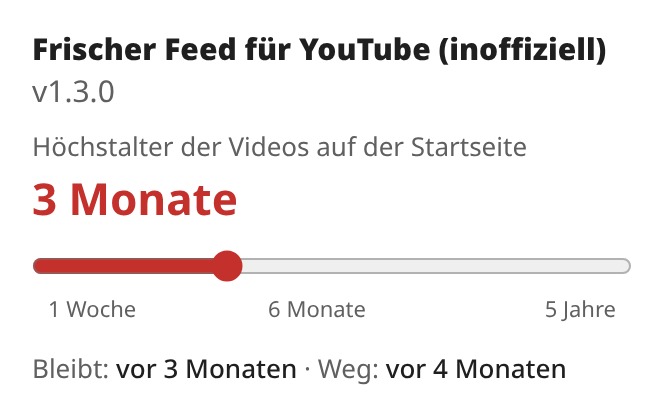
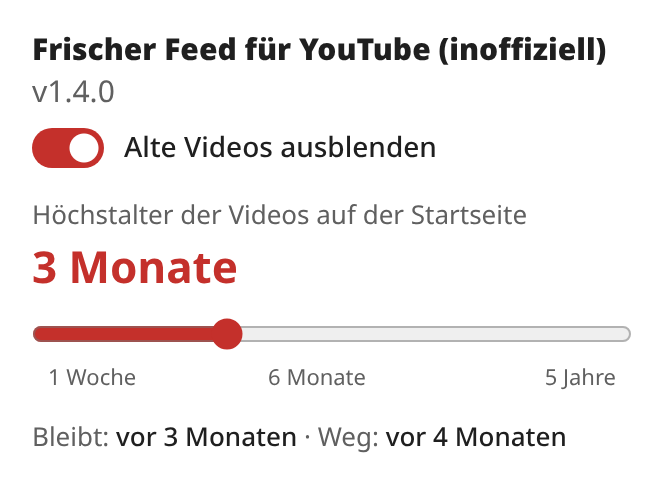
feat: on/off switch for the filter (1.4.0)
A switch "Hide old videos" at the top of the popup turns the filter off
and on. Switched off, the content script removes all its marks at once, so
every hidden video reappears, and the slider is greyed out and disabled;
the chosen limit stays stored for the next time. The switch label is
translated into all 29 languages.

The mock-page test now also switches the filter off and on again.

Changed region(s): [[0.0301, 0.4062, 0.9639, 0.8125], [0.0301, 0.0625, 0.9337, 0.375], [0.0301, 0.8438, 0.8735, 0.9375]]

diff --git a/i18n.js b/i18n.js
@@ -2,35 +2,35 @@
 // Fehlt ein Text in einer Sprache, wird der englische verwendet.
 // Zeiteinheiten ("3 Monate", "vor 3 Monaten") stehen hier nicht: die liefert der Browser per Intl.
 window.yffStrings = {
-  de: { question: "Höchstalter der Videos auf der Startseite", keep: "Bleibt", hide: "Weg" },
-  en: { question: "Maximum age of videos on the home page", keep: "Shown", hide: "Hidden" },
-  fr: { question: "Âge maximal des vidéos sur la page d’accueil", keep: "Visible", hide: "Masqué" },
-  es: { question: "Antigüedad máxima de los vídeos en la página principal", keep: "Visible", hide: "Oculto" },
-  it: { question: "Età massima dei video nella home", keep: "Visibile", hide: "Nascosto" },
-  pt: { question: "Idade máxima dos vídeos na página inicial", keep: "Visível", hide: "Oculto" },
-  nl: { question: "Maximale leeftijd van video’s op de startpagina", keep: "Zichtbaar", hide: "Verborgen" },
-  pl: { question: "Maksymalny wiek filmów na stronie głównej", keep: "Widoczne", hide: "Ukryte" },
-  cs: { question: "Maximální stáří videí na hlavní stránce", keep: "Zobrazeno", hide: "Skryto" },
-  sk: { question: "Maximálny vek videí na hlavnej stránke", keep: "Zobrazené", hide: "Skryté" },
-  sl: { question: "Največja starost videoposnetkov na začetni strani", keep: "Vidno", hide: "Skrito" },
-  hr: { question: "Najveća starost videozapisa na početnoj stranici", keep: "Vidljivo", hide: "Skriveno" },
-  hu: { question: "Videók legnagyobb kora a kezdőlapon", keep: "Látható", hide: "Rejtett" },
-  ro: { question: "Vechimea maximă a videoclipurilor pe pagina principală", keep: "Vizibil", hide: "Ascuns" },
-  bg: { question: "Максимална възраст на видеоклиповете на началната страница", keep: "Видимо", hide: "Скрито" },
-  el: { question: "Μέγιστη ηλικία βίντεο στην αρχική σελίδα", keep: "Ορατό", hide: "Κρυφό" },
-  da: { question: "Maksimal alder for videoer på forsiden", keep: "Vises", hide: "Skjult" },
-  sv: { question: "Högsta ålder för videor på startsidan", keep: "Visas", hide: "Dolt" },
-  nb: { question: "Maksimal alder for videoer på startsiden", keep: "Vises", hide: "Skjult" },
-  fi: { question: "Videoiden enimmäisikä etusivulla", keep: "Näkyy", hide: "Piilotettu" },
-  et: { question: "Videote maksimaalne vanus avalehel", keep: "Nähtav", hide: "Peidetud" },
-  lv: { question: "Videoklipu maksimālais vecums sākumlapā", keep: "Redzams", hide: "Paslēpts" },
-  lt: { question: "Didžiausias vaizdo įrašų amžius pradžios puslapyje", keep: "Matoma", hide: "Paslėpta" },
-  ga: { question: "Uasaois na bhfíseán ar an leathanach baile", keep: "Le feiceáil", hide: "I bhfolach" },
-  mt: { question: "L-età massima tal-vidjows fil-paġna ewlenija", keep: "Jidher", hide: "Moħbi" },
-  uk: { question: "Максимальний вік відео на головній сторінці", keep: "Видно", hide: "Приховано" },
-  ru: { question: "Максимальный возраст видео на главной странице", keep: "Видно", hide: "Скрыто" },
-  tr: { question: "Ana sayfadaki videoların azami yaşı", keep: "Görünür", hide: "Gizli" },
-  ca: { question: "Antiguitat màxima dels vídeos a la pàgina d’inici", keep: "Visible", hide: "Amagat" },
+  de: { toggle: "Alte Videos ausblenden", question: "Höchstalter der Videos auf der Startseite", keep: "Bleibt", hide: "Weg" },
+  en: { toggle: "Hide old videos", question: "Maximum age of videos on the home page", keep: "Shown", hide: "Hidden" },
+  fr: { toggle: "Masquer les anciennes vidéos", question: "Âge maximal des vidéos sur la page d’accueil", keep: "Visible", hide: "Masqué" },
+  es: { toggle: "Ocultar vídeos antiguos", question: "Antigüedad máxima de los vídeos en la página principal", keep: "Visible", hide: "Oculto" },
+  it: { toggle: "Nascondi i video vecchi", question: "Età massima dei video nella home", keep: "Visibile", hide: "Nascosto" },
+  pt: { toggle: "Ocultar vídeos antigos", question: "Idade máxima dos vídeos na página inicial", keep: "Visível", hide: "Oculto" },
+  nl: { toggle: "Oude video’s verbergen", question: "Maximale leeftijd van video’s op de startpagina", keep: "Zichtbaar", hide: "Verborgen" },
+  pl: { toggle: "Ukryj stare filmy", question: "Maksymalny wiek filmów na stronie głównej", keep: "Widoczne", hide: "Ukryte" },
+  cs: { toggle: "Skrýt stará videa", question: "Maximální stáří videí na hlavní stránce", keep: "Zobrazeno", hide: "Skryto" },
+  sk: { toggle: "Skryť staré videá", question: "Maximálny vek videí na hlavnej stránke", keep: "Zobrazené", hide: "Skryté" },
+  sl: { toggle: "Skrij stare videoposnetke", question: "Največja starost videoposnetkov na začetni strani", keep: "Vidno", hide: "Skrito" },
+  hr: { toggle: "Sakrij stare videozapise", question: "Najveća starost videozapisa na početnoj stranici", keep: "Vidljivo", hide: "Skriveno" },
+  hu: { toggle: "Régi videók elrejtése", question: "Videók legnagyobb kora a kezdőlapon", keep: "Látható", hide: "Rejtett" },
+  ro: { toggle: "Ascunde videoclipurile vechi", question: "Vechimea maximă a videoclipurilor pe pagina principală", keep: "Vizibil", hide: "Ascuns" },
+  bg: { toggle: "Скриване на стари видеоклипове", question: "Максимална възраст на видеоклиповете на началната страница", keep: "Видимо", hide: "Скрито" },
+  el: { toggle: "Απόκρυψη παλιών βίντεο", question: "Μέγιστη ηλικία βίντεο στην αρχική σελίδα", keep: "Ορατό", hide: "Κρυφό" },
+  da: { toggle: "Skjul gamle videoer", question: "Maksimal alder for videoer på forsiden", keep: "Vises", hide: "Skjult" },
+  sv: { toggle: "Dölj gamla videor", question: "Högsta ålder för videor på startsidan", keep: "Visas", hide: "Dolt" },
+  nb: { toggle: "Skjul gamle videoer", question: "Maksimal alder for videoer på startsiden", keep: "Vises", hide: "Skjult" },
+  fi: { toggle: "Piilota vanhat videot", question: "Videoiden enimmäisikä etusivulla", keep: "Näkyy", hide: "Piilotettu" },
+  et: { toggle: "Peida vanad videod", question: "Videote maksimaalne vanus avalehel", keep: "Nähtav", hide: "Peidetud" },
+  lv: { toggle: "Paslēpt vecos videoklipus", question: "Videoklipu maksimālais vecums sākumlapā", keep: "Redzams", hide: "Paslēpts" },
+  lt: { toggle: "Slėpti senus vaizdo įrašus", question: "Didžiausias vaizdo įrašų amžius pradžios puslapyje", keep: "Matoma", hide: "Paslėpta" },
+  ga: { toggle: "Folaigh seanfhíseáin", question: "Uasaois na bhfíseán ar an leathanach baile", keep: "Le feiceáil", hide: "I bhfolach" },
+  mt: { toggle: "Aħbi l-vidjows qodma", question: "L-età massima tal-vidjows fil-paġna ewlenija", keep: "Jidher", hide: "Moħbi" },
+  uk: { toggle: "Приховувати старі відео", question: "Максимальний вік відео на головній сторінці", keep: "Видно", hide: "Приховано" },
+  ru: { toggle: "Скрывать старые видео", question: "Максимальный возраст видео на главной странице", keep: "Видно", hide: "Скрыто" },
+  tr: { toggle: "Eski videoları gizle", question: "Ana sayfadaki videoların azami yaşı", keep: "Görünür", hide: "Gizli" },
+  ca: { toggle: "Amaga els vídeos antics", question: "Antiguitat màxima dels vídeos a la pàgina d’inici", keep: "Visible", hide: "Amagat" },
 };
 
 // Sprachcode (z. B. "de-AT", "pt-BR", "no") auf einen vorhandenen Block abbilden, sonst Englisch

diff --git a/content.js b/content.js
@@ -5,6 +5,7 @@
 // Grenze in Tagen, wird im Popup eingestellt. Standard 4 Wochen:
 // "vor 4 Wochen" bleibt sichtbar, "vor 1 Monat" verschwindet.
 let maxTage = 28;
+let aktiv = true; // Ein/Aus-Schalter im Popup
 
 // Bereich, in dem gefiltert wird: nur die Startseite.
 const BEREICH = 'ytd-browse[page-subtype="home"]';
@@ -54,7 +55,8 @@ function erkenner(sprachen) {
 
 function filtern(alterInTagen) {
   const alt = new Set();
-  for (const bereich of document.querySelectorAll(BEREICH)) {
+  // Filter aus: alt bleibt leer, unten werden alle Markierungen entfernt
+  for (const bereich of aktiv ? document.querySelectorAll(BEREICH) : []) {
     const walker = document.createTreeWalker(bereich, NodeFilter.SHOW_TEXT);
     for (let knoten = walker.nextNode(); knoten; knoten = walker.nextNode()) {
       // Manche Metadaten stehen als "1.234 Aufrufe • vor 2 Monaten" in einem Knoten.
@@ -89,9 +91,11 @@ if (typeof module !== 'undefined') {
     setTimeout(() => { geplant = false; lauf(); }, 250);
   }).observe(document.documentElement, { childList: true, subtree: true, characterData: true });
 
-  chrome.storage.local.get({ maxTage }).then((wert) => { maxTage = wert.maxTage; lauf(); });
+  chrome.storage.local.get({ maxTage, aktiv }).then((wert) => { ({ maxTage, aktiv } = wert); lauf(); });
   // Änderung im Popup wirkt sofort, ohne die Seite neu zu laden.
   chrome.storage.onChanged.addListener((aenderung) => {
-    if (aenderung.maxTage) { maxTage = aenderung.maxTage.newValue; lauf(); }
+    if (aenderung.maxTage) maxTage = aenderung.maxTage.newValue;
+    if (aenderung.aktiv) aktiv = aenderung.aktiv.newValue;
+    lauf();
   });
 }

diff --git a/test/testseite.html b/test/testseite.html
@@ -17,7 +17,8 @@
     local: { get: (standard) => Promise.resolve({ ...standard }) },
     onChanged: { addListener: (f) => hoerer.push(f) },
   } };
-  const grenzeSetzen = (tage) => hoerer.forEach((f) => f({ maxTage: { newValue: tage } }));
+  const setzen = (schluessel, wert) => hoerer.forEach((f) => f({ [schluessel]: { newValue: wert } }));
+  const grenzeSetzen = (tage) => setzen('maxTage', tage);
   const zustand = (name) => name + ': ' + [...document.querySelectorAll('ytd-rich-item-renderer')]
     .map((e) => e.id + '=' + (e.classList.contains('fresh-feed-hidden') ? 'AUS' : 'an')).join(' ');
 </script>
@@ -30,6 +31,8 @@
     document.getElementById('altdatum').textContent = 'vor 1 Tag';
   }, 500);
   setTimeout(() => { ergebnis.push(zustand('28 Tage')); grenzeSetzen(7); }, 1000);
-  setTimeout(() => { ergebnis.push(zustand('7 Tage')); grenzeSetzen(1825); }, 1500);
-  setTimeout(() => { ergebnis.push(zustand('5 Jahre')); document.title = ergebnis.join(' | '); }, 2000);
+  setTimeout(() => { ergebnis.push(zustand('7 Tage')); setzen('aktiv', false); }, 1500);
+  setTimeout(() => { ergebnis.push(zustand('7 Tage, Filter aus')); setzen('aktiv', true); }, 2000);
+  setTimeout(() => { ergebnis.push(zustand('7 Tage, Filter wieder an')); grenzeSetzen(1825); }, 2500);
+  setTimeout(() => { ergebnis.push(zustand('5 Jahre')); document.title = ergebnis.join(' | '); }, 3000);
 </script></body></html>

diff --git a/popup.css b/popup.css
@@ -3,6 +3,7 @@
   --text: #1f1f1f;
   --leise: #606060;
   --akzent: #c4302b;
+  --aus: #b4b4b4;
   --daumen: 16px;
 }
 @media (prefers-color-scheme: dark) {
@@ -11,6 +12,7 @@
     --text: #f1f1f1;
     --leise: #aaaaaa;
     --akzent: #ff5a52;
+    --aus: #5c5c5c;
   }
 }
 
@@ -24,6 +26,34 @@ body {
 }
 h1 { font-size: 15px; margin: 0 0 8px; }
 h1 span { font-weight: normal; color: var(--leise); }
+
+/* Ein/Aus-Schalter; der Knopf ist ein Hintergrundverlauf, damit kein ::before auf <input> nötig ist */
+.schalter {
+  display: flex;
+  align-items: center;
+  gap: 10px;
+  margin: 4px 0 14px;
+  font-size: 14px;
+  font-weight: 500;
+  cursor: pointer;
+}
+.schalter input {
+  appearance: none;
+  flex: none;
+  width: 36px;
+  height: 20px;
+  margin: 0;
+  border-radius: 10px;
+  background: radial-gradient(circle at 10px 50%, #fff 7px, transparent 7.5px), var(--aus);
+  cursor: pointer;
+}
+.schalter input:checked {
+  background: radial-gradient(circle at 26px 50%, #fff 7px, transparent 7.5px), var(--akzent);
+}
+.schalter input:focus-visible { outline: 2px solid var(--akzent); outline-offset: 2px; }
+
+fieldset { border: 0; margin: 0; padding: 0; min-width: 0; }
+fieldset:disabled { opacity: .4; }
 .frage { margin: 0; color: var(--leise); }
 output {
   display: block;

diff --git a/popup.js b/popup.js
@@ -43,14 +43,24 @@ function anzeigen() {
   beispiel.replaceChildren(`${text('keep')}: `, b(vor(s)), ` · ${text('hide')}: `, b(vor(naechste)));
 }
 
-// Gespeicherten Wert auf die nächstliegende Stufe abbilden (Standard 28 Tage = 4 Wochen).
-chrome.storage.local.get({ maxTage: 28 }).then(({ maxTage }) => {
+const aktiv = document.getElementById('aktiv');
+const einstellung = document.getElementById('einstellung');
+
+// Gespeicherten Wert auf die nächstliegende Stufe abbilden (Standard 28 Tage = 4 Wochen, Filter an).
+chrome.storage.local.get({ maxTage: 28, aktiv: true }).then((s) => {
   let beste = 0;
-  STUFEN.forEach((s, i) => {
-    if (Math.abs(s.tage - maxTage) < Math.abs(STUFEN[beste].tage - maxTage)) beste = i;
+  STUFEN.forEach((stufe, i) => {
+    if (Math.abs(stufe.tage - s.maxTage) < Math.abs(STUFEN[beste].tage - s.maxTage)) beste = i;
   });
   regler.value = beste;
+  aktiv.checked = s.aktiv;
+  einstellung.disabled = !s.aktiv; // Regler grau und gesperrt, die Grenze bleibt gespeichert
   anzeigen();
+});
+
+aktiv.addEventListener('change', () => {
+  einstellung.disabled = !aktiv.checked;
+  chrome.storage.local.set({ aktiv: aktiv.checked });
 });
 
 regler.addEventListener('input', anzeigen); // Anzeige beim Ziehen

diff --git a/popup.html b/popup.html
@@ -6,11 +6,17 @@
 </head>
 <body>
   <h1><b id="name"></b> <span id="version"></span></h1>
-  <p class="frage" data-i18n="question"></p>
-  <output id="wert"></output>
-  <input type="range" id="regler" min="0" step="1">
-  <div class="skala" id="skala"></div>
-  <p class="beispiel" id="beispiel"></p>
+  <label class="schalter">
+    <input type="checkbox" id="aktiv" role="switch">
+    <span data-i18n="toggle"></span>
+  </label>
+  <fieldset id="einstellung">
+    <p class="frage" data-i18n="question"></p>
+    <output id="wert"></output>
+    <input type="range" id="regler" min="0" step="1">
+    <div class="skala" id="skala"></div>
+    <p class="beispiel" id="beispiel"></p>
+  </fieldset>
   <script src="i18n.js"></script>
   <script src="popup.js"></script>
 </body>

diff --git a/README.md b/README.md
@@ -13,7 +13,9 @@ extension it only shows what is recent enough for you. Subscriptions, search, ch
 
 ## Features
 
-- **Your own limit:** click the extension icon and move the slider. Below the slider you see which age is still shown
+- **On/off switch:** click the extension icon; “Hide old videos” turns the filter off and on. Switched off, every
+  hidden video comes back at once; your limit is kept for the next time.
+- **Your own limit:** move the slider in the same popup. Below the slider you see which age is still shown
   and which is already hidden. Changes apply at once, also in YouTube tabs that are already open.
 - **Works in every YouTube language:** the extension reads the age YouTube writes under each video
   (“3 months ago”, “vor 3 Monaten”, “il y a 3 mois”, “3 месяца назад”, also “Streamed 2 days ago”).
@@ -30,7 +32,7 @@ extension it only shows what is recent enough for you. Subscriptions, search, ch
 
 The steps are exactly the ones YouTube uses to show a video's age: after 4 weeks it says “1 month ago”, after
 11 months “1 year ago”. Finer steps (say, 100 days) would have no effect, because YouTube never shows that precision.
-Default: 4 weeks. The setting is stored locally in your browser profile.
+Default: filter on, 4 weeks. Both settings are stored locally in your browser profile.
 
 ## Languages
 
@@ -85,7 +87,7 @@ Firefox only installs signed add-ons permanently. Signing is free and done by Mo
 
 ## Privacy
 
-- The extension only runs on `https://www.youtube.com/*` and requests a single permission: `storage`, for the limit.
+- The extension only runs on `https://www.youtube.com/*` and requests a single permission: `storage`, for the switch and the limit.
   In Firefox it declares that it collects no data.
 - It sends **no requests at all** – it only reads text that is already on the page and hides elements.
 - No analytics, no tracking, no third-party servers. What you watch stays between you and YouTube.
@@ -125,8 +127,8 @@ google-chrome-stable --headless=new --user-data-dir=/tmp/ff-test --allow-file-ac
 ```
 
 `test/zeitangaben/` holds the age texts of real YouTube search results, one file per interface language.
-The second test runs `content.js` on a mock home page with endless scrolling and recycled tiles, and changes the limit
-three times (28 days, 7 days, 5 years).
+The second test runs `content.js` on a mock home page with endless scrolling and recycled tiles, and changes the settings
+step by step (28 days, 7 days, filter off, filter on again, 5 years).
 
 ## License
 

diff --git a/README.de.md b/README.de.md
@@ -14,7 +14,9 @@ bleiben unverändert.
 
 ## Funktionen
 
-- **Eigene Grenze:** Auf das Erweiterungssymbol klicken und den Regler verschieben. Darunter steht, welches Alter gerade
+- **Ein/Aus-Schalter:** Auf das Erweiterungssymbol klicken; „Alte Videos ausblenden“ schaltet den Filter aus und an.
+  Ausgeschaltet sind alle ausgeblendeten Videos sofort wieder da; die Grenze bleibt für das nächste Mal gespeichert.
+- **Eigene Grenze:** Im selben Popup den Regler verschieben. Darunter steht, welches Alter gerade
   noch bleibt und welches schon verschwindet. Änderungen wirken sofort, auch in bereits offenen YouTube-Tabs.
 - **Funktioniert in jeder YouTube-Sprache:** Die Erweiterung liest das Alter, das YouTube unter jedes Video schreibt
   („vor 3 Monaten“, „3 months ago“, „il y a 3 mois“, „3 месяца назад“, auch „vor 2 Tagen gestreamt“).
@@ -31,7 +33,7 @@ bleiben unverändert.
 
 Die Stufen sind genau die, in denen YouTube das Alter anzeigt: Nach 4 Wochen heißt es „vor 1 Monat“, nach 11 Monaten
 „vor 1 Jahr“. Feinere Stufen (etwa 100 Tage) hätten keine Wirkung, weil YouTube nie so genau anzeigt.
-Standard: 4 Wochen. Die Einstellung wird lokal im Browserprofil gespeichert.
+Standard: Filter an, 4 Wochen. Beide Einstellungen werden lokal im Browserprofil gespeichert.
 
 ## Sprachen
 
@@ -86,7 +88,7 @@ Firefox installiert Add-ons nur dauerhaft, wenn sie signiert sind. Das Signieren
 
 ## Datenschutz
 
-- Die Erweiterung läuft nur auf `https://www.youtube.com/*` und verlangt eine einzige Berechtigung: `storage`, für die Grenze.
+- Die Erweiterung läuft nur auf `https://www.youtube.com/*` und verlangt eine einzige Berechtigung: `storage`, für Schalter und Grenze.
   In Firefox erklärt sie, dass sie keine Daten erhebt.
 - Sie schickt **überhaupt keine Anfragen** – sie liest nur Text, der schon auf der Seite steht, und blendet Elemente aus.
 - Keine Statistik, kein Tracking, keine fremden Server. Was du anschaust, bleibt zwischen dir und YouTube.
@@ -128,7 +130,8 @@ google-chrome-stable --headless=new --user-data-dir=/tmp/ff-test --allow-file-ac
 
 `test/zeitangaben/` enthält die Altersangaben echter YouTube-Suchergebnisse, eine Datei pro Oberflächensprache.
 Der zweite Test lässt `content.js` auf einer nachgebauten Startseite mit Endlos-Scroll und wiederverwendeten Kacheln
-laufen und wechselt die Grenze dreimal (28 Tage, 7 Tage, 5 Jahre).
+laufen und ändert die Einstellungen
+Schritt für Schritt (28 Tage, 7 Tage, Filter aus, Filter wieder an, 5 Jahre).
 
 ## Lizenz
 

diff --git a/CHANGELOG.md b/CHANGELOG.md
@@ -6,9 +6,16 @@ and this project adheres to [Semantic Versioning](https://semver.org/spec/v2.0.0
 
 ## [Unreleased]
 
-## [1.3.0] - 2026-11-26
+## [1.4.0] - 2026-11-26
 
-First public release. Versions 1.0.0–1.2.0 were only used locally.
+First public release. Versions 1.0.0–1.3.0 were only used locally.
+
+### Added
+
+- On/off switch “Hide old videos” in the popup. Switched off, all hidden videos reappear at once and the slider is
+  greyed out; the limit is kept.
+
+## [1.3.0] - 2026-11-26
 
 ### Added
 
@@ -42,5 +49,5 @@ First public release. Versions 1.0.0–1.2.0 were only used locally.
 
 - Hides videos on the YouTube home page that are older than 4 weeks (German and English interface).
 
-[Unreleased]: https://github.com/comax424/youtube-fresh-feed/compare/v1.3.0...HEAD
-[1.3.0]: https://github.com/comax424/youtube-fresh-feed/releases/tag/v1.3.0
+[Unreleased]: https://github.com/comax424/youtube-fresh-feed/compare/v1.4.0...HEAD
+[1.4.0]: https://github.com/comax424/youtube-fresh-feed/releases/tag/v1.4.0
